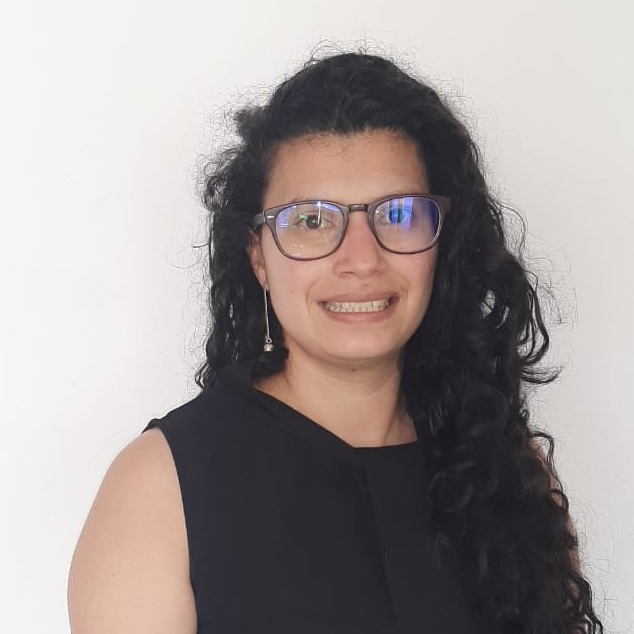
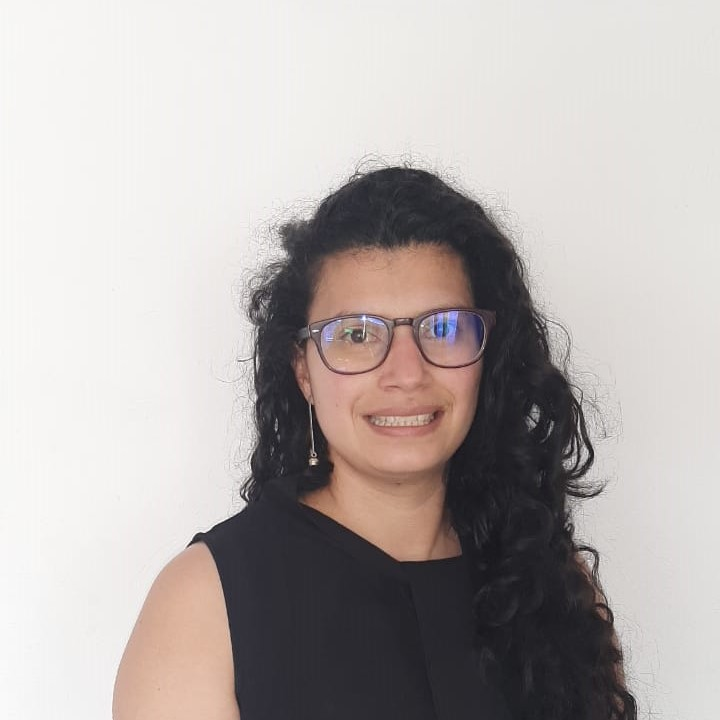
Edward branch (#1)
* Photo size changed

* add validations on picks and contact

Changed region(s): [[0.0899, 0.0599, 0.989, 1.0]]

diff --git a/src/Contact.js b/src/Contact.js
@@ -1,12 +1,9 @@
+import constants from "./Constants";
 const Contact = ({ contacto }) => {
   let media;
 
-  if (!contacto.Rating.length) {
-    media = "Nuevo";
-  } else {
-    media = contacto.Rating.reduce((a, b) => a + b, 0) / contacto.Rating.length;
-    media = `${media.toFixed(1)} (${Math.round((media / 5) * 100)}%)`;
-  }
+  console.log(contacto)
+  validateContactFields(contacto, media)
 
   return (
     <div className="contact">
@@ -29,7 +26,7 @@ const Contact = ({ contacto }) => {
                 href={`https://www.google.com/maps/place/${contacto.Ubicacion}`}
                 target="_blank"
                 rel="noreferrer"
-              >                
+              >
                 {contacto.Ubicacion}
               </a>
             </div>
@@ -61,5 +58,20 @@ const Contact = ({ contacto }) => {
     </div>
   );
 };
+
+function validateContactFields(contact, media) {
+  contact.foto = (contact.foto === "" || contact.foto == null) ?
+      constants.IMAGE_CONTACTOS_PRO : contact.foto;
+
+  contact.Contacto = (contact.Contacto === "" ||contact.Contacto == null) ?
+  constants.ADVISER_CONTACTOS_PRO : contact.Contacto;
+
+  if (!contact.Rating.length) {
+    media = "Nuevo";
+  } else {
+    media = contact.Rating.reduce((a, b) => a + b, 0) / contact.Rating.length;
+    media = `${media.toFixed(1)} (${Math.round((media / 5) * 100)}%)`;
+  }
+}
 
 export default Contact;

diff --git a/src/Constants.js b/src/Constants.js
@@ -1,0 +1,4 @@
+module.exports = Object.freeze({
+    IMAGE_CONTACTOS_PRO: '/img/contactosPro.jpg',
+    ADVISER_CONTACTOS_PRO: '573222133100'
+})
